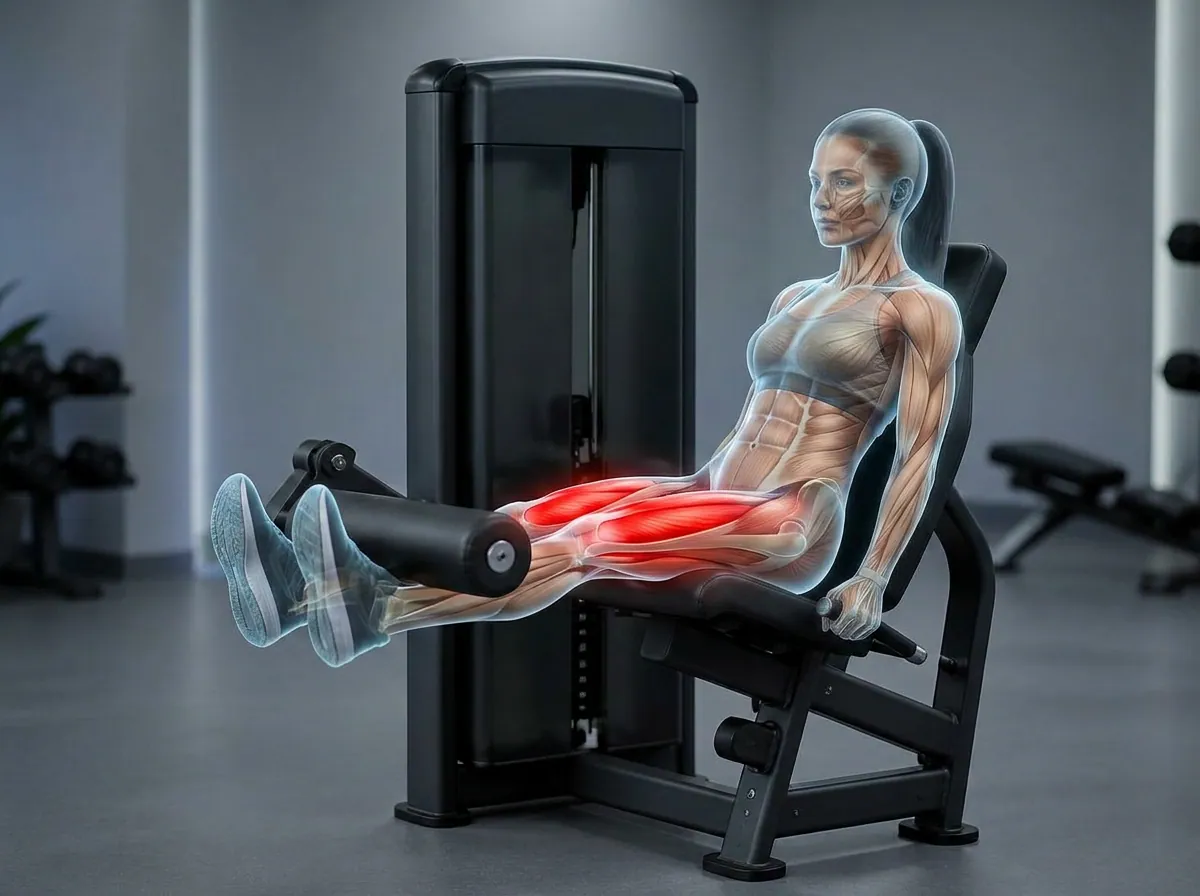
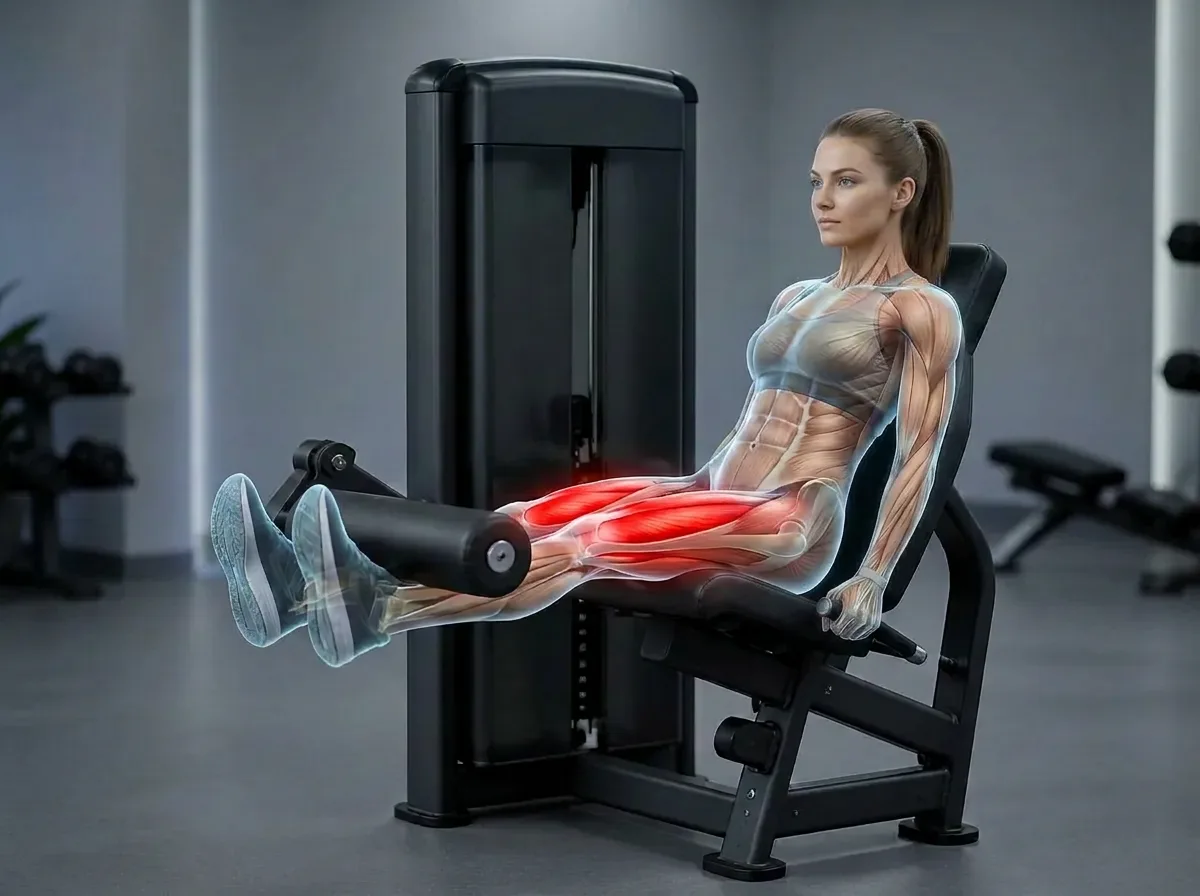
Imagens rodada 11: fila de mapa muscular FECHADA (96 de 97) e mais 2 rostos
Loop de imagens, iteracao 7. 6/6 aprovadas de primeira.

MAPAS FINAIS: empurra-puxa-aquatico (frente e costas), equilibrio-
unipodal (fibulares escuros na lateral da canela, invertendo a
hierarquia da dorsiflexao) e respiracao-360.

O DIAFRAGMA foi o ultimo problema anatomico da fila: e um musculo
interno, em cupula, sem projecao na pele. A solucao seguiu a convencao
da ilustracao anatomica, marcando em arco a BORDA INFERIOR DAS
COSTELAS, que e onde ele se insere e o unico ponto que uma figura de
superficie pode apontar com honestidade. Registrado em comentario no
codigo.

CHIN-TUCK FICA SEM MAPA, de proposito. O unico musculo da matriz sao os
"flexores profundos do pescoco", que nao tem projecao nenhuma na
superficie: qualquer marcacao seria invencao. Vale a regra da casa:
ausencia e melhor que imagem que ensina errado. O app cai no boneco
cinza neutro.

Com isso a fila de mapa muscular esta FECHADA: 96 dos 97 exercicios tem
o par frente/costas, contra 23 no inicio da rodada de hoje.

ROSTOS: cadeira-extensora e rosca-direta trocaram musculatura facial
exposta por rosto humano com pele. Sao 10 analises consertadas ate
aqui; a varredura das restantes segue aberta.

check:catalogo integro, 25 checks e build verdes.

Changed region(s): [[0.6475, 0.0938, 0.8017, 0.3438]]

diff --git a/src/data/muscle-map-images.ts b/src/data/muscle-map-images.ts
@@ -118,6 +118,14 @@ export const muscleMapImages: Record<string, { front?: string; back?: string }> 
   "farmer-walk": { front: "/anatomy/mm/farmer-walk-front.webp" },
   "caminhada-plana": { front: "/anatomy/mm/caminhada-plana-front.webp", back: "/anatomy/mm/caminhada-plana-back.webp" },
   "corrida-aquatica": { front: "/anatomy/mm/corrida-aquatica-front.webp" },
+  "empurra-puxa-aquatico": { front: "/anatomy/mm/empurra-puxa-aquatico-front.webp", back: "/anatomy/mm/empurra-puxa-aquatico-back.webp" },
+  "equilibrio-unipodal": { front: "/anatomy/mm/equilibrio-unipodal-front.webp" },
+  /*
+   * O diafragma é interno e não tem projeção na pele. A convenção da ilustração
+   * anatômica resolve isso marcando a borda inferior das costelas, que é onde ele se
+   * insere e o único lugar onde uma figura de superfície pode apontá-lo com honestidade.
+   */
+  "respiracao-360": { front: "/anatomy/mm/respiracao-360-front.webp" },
 };
 
 export function getMuscleMapImages(slug?: string) {
